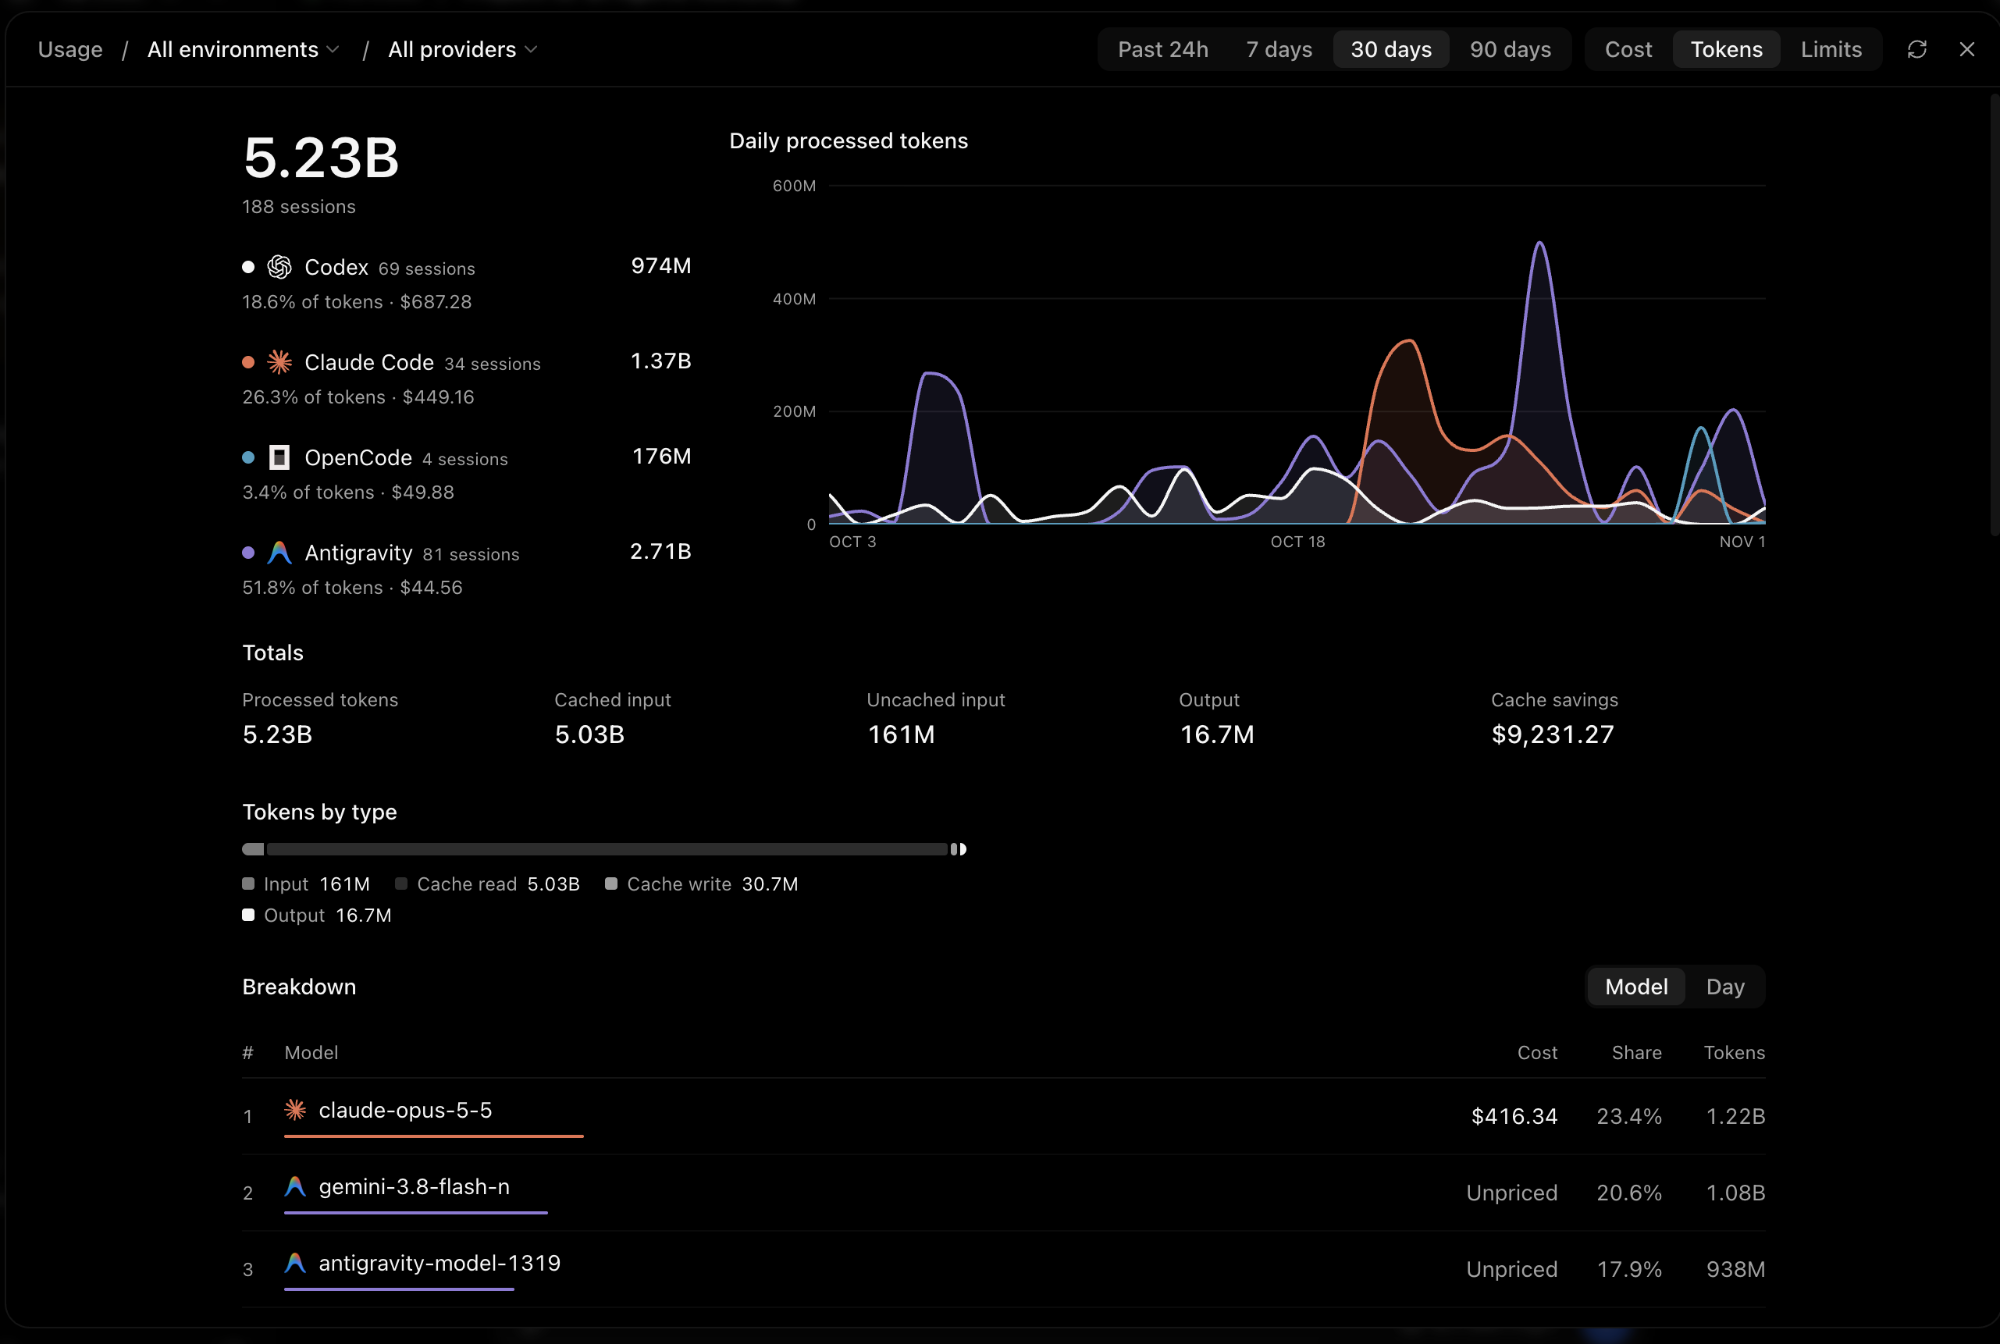
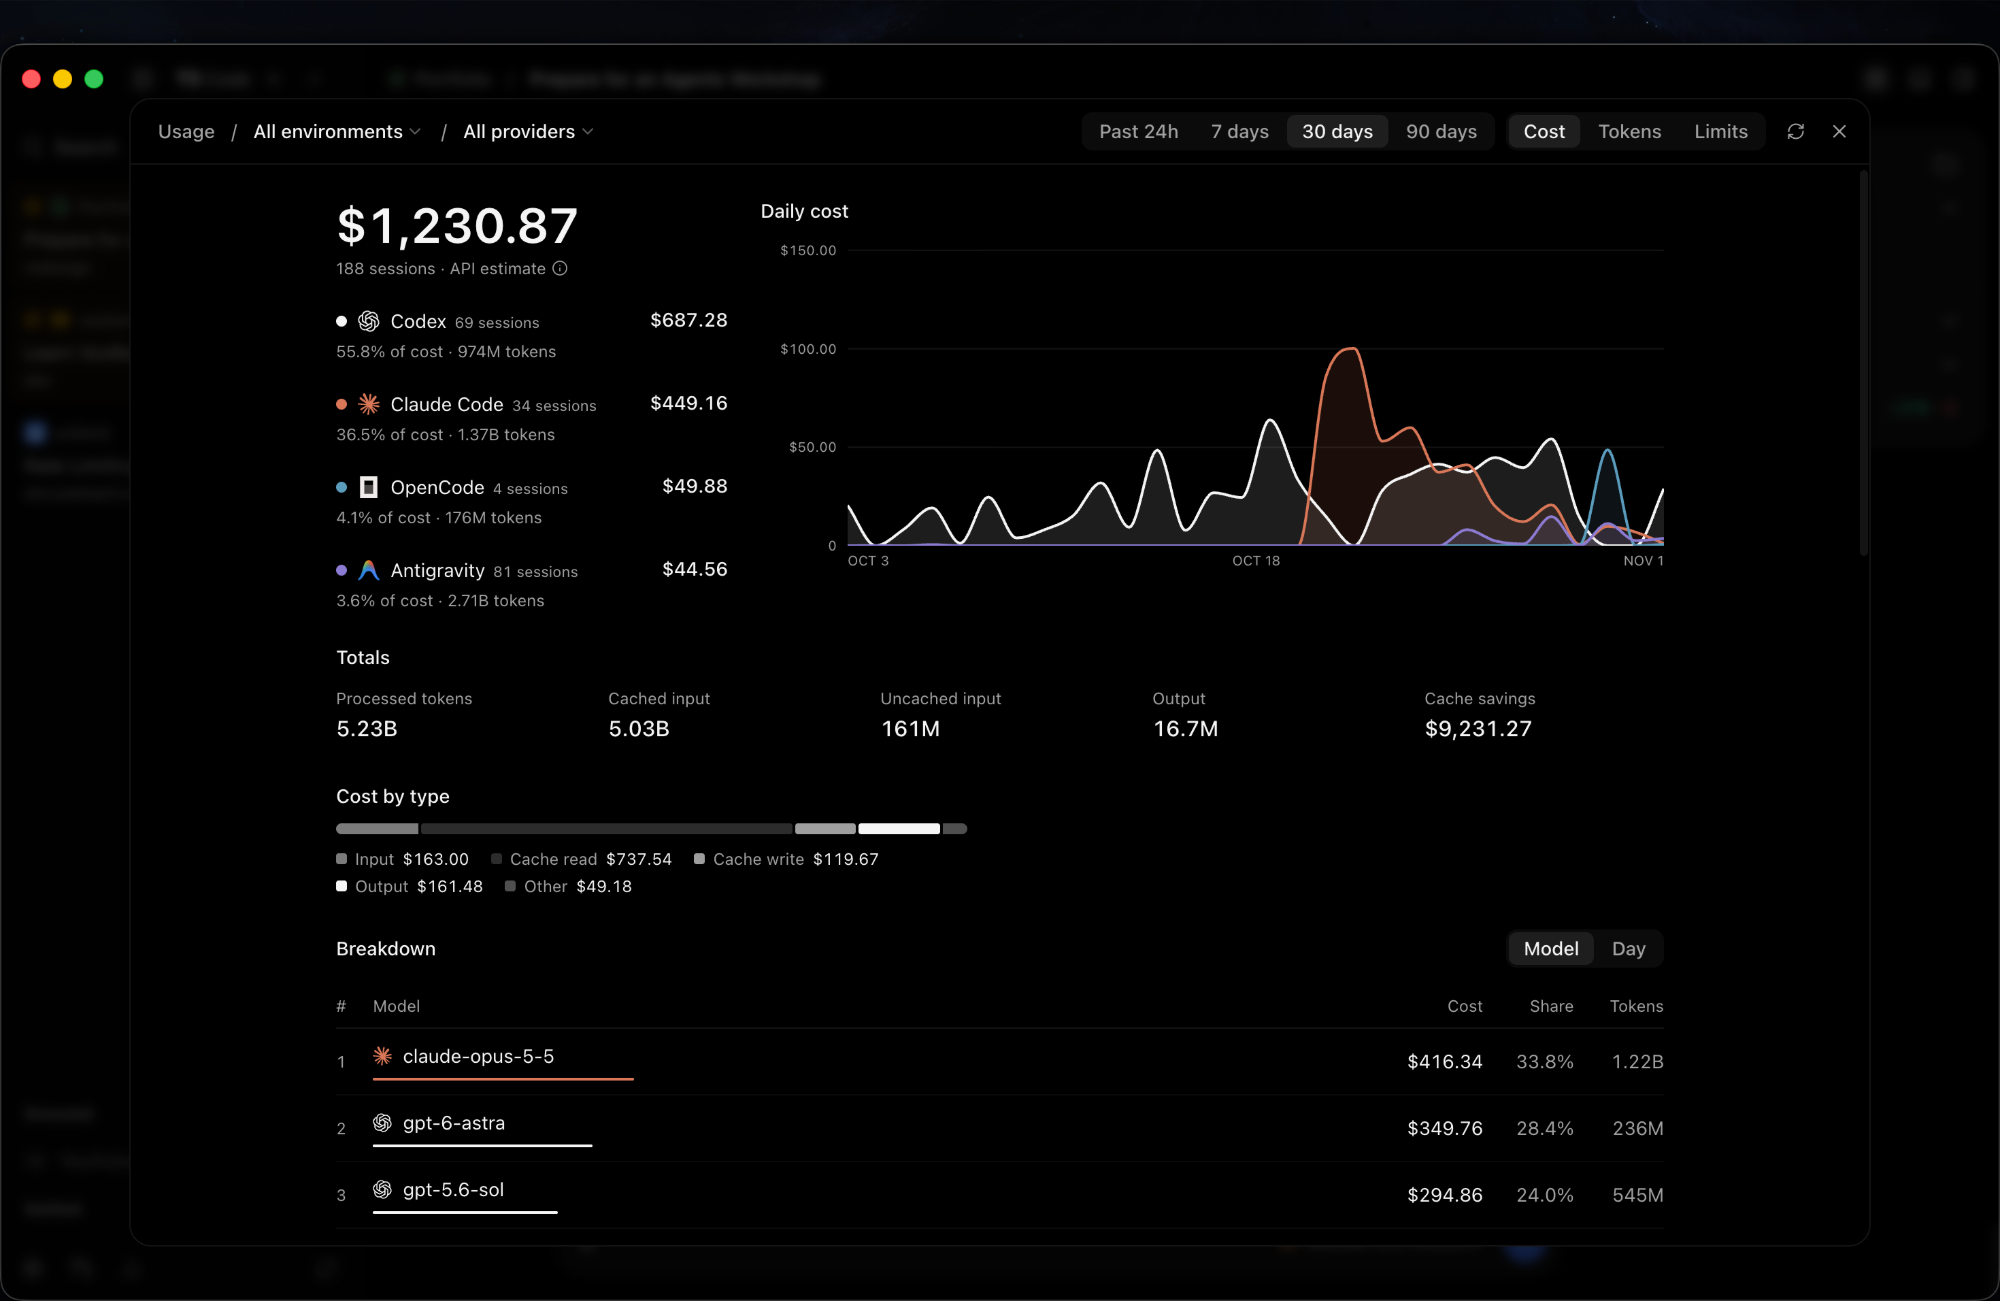
Swap token usage screenshot for cost view and update slide copy

diff --git a/LetTheAgentCook/index.html b/LetTheAgentCook/index.html
@@ -734,9 +734,9 @@ svg.diagram { width: 100%; height: auto; display: block; overflow: visible; font
   </ul></aside>
 </section>
 
-<section class="slide" data-act="Token budget" data-title="Read the token dashboard" data-at="12:00"><div class="kicker"><b>03</b> Tokens &amp; cost</div><h2 class="title">5.23 billion tokens. <em>What counts?</em></h2><div class="body"><div class="cols" style="grid-template-columns:1.6fr 1fr;align-items:center"><img src="assets/token-usage-30-days.png" alt="User-supplied 30-day usage dashboard: 5.23B processed tokens across 188 sessions, 5.03B cached input, 161M uncached input, 30.7M cache writes and 16.7M output" style="width:100%;max-height:32rem;object-fit:contain"><div class="stack"><div class="card"><h3>Repeated context adds up</h3><p>5.03B cache reads · about 96% of displayed processed tokens.</p></div><div class="card"><h3>Usage ≠ your invoice</h3><p>The dashboard reports $9,231.27 cache savings. Some models are unpriced; subscriptions and API billing differ.</p></div></div></div></div><aside class="notes"><p>Read the screenshot as aggregated processing over 188 sessions, not 5.23 billion unique words. Inputs can be counted again on successive model calls. Rounded categories sum to about 5.2384B; do not force exact reconciliation with 5.23B. The screenshot alone cannot establish the accounting rules, actual bill or comparable provider prices. Unpriced does not mean free. Cache savings is a dashboard estimate against its baseline, not money paid back.</p><p>Budget: one minute. Full workshop remains 45 minutes; see updated timeline.</p></aside></section>
+<section class="slide" data-act="Token budget" data-title="Read the token dashboard" data-at="12:00"><div class="kicker"><b>03</b> Tokens &amp; cost</div><h2 class="title">5.23 billion tokens. <em>What counts?</em></h2><div class="body"><div class="cols" style="grid-template-columns:1.6fr 1fr;align-items:center"><img src="assets/token-usage-30-days.png" alt="30-day usage dashboard: $1,230.87 API estimate across 188 sessions; 5.23B processed tokens, 5.03B cached input, 161M uncached input, 16.7M output; cost by type: cache read $737.54, input $163.00, output $161.48, cache write $119.67, other $49.18" style="width:100%;max-height:32rem;object-fit:contain"><div class="stack"><div class="card"><h3>Repeated context adds up</h3><p>5.03B cache reads · about 96% of displayed processed tokens.</p></div><div class="card"><h3>Usage ≠ your invoice</h3><p>The $1,230.87 is an API-rate estimate, and the dashboard reports $9,231.27 cache savings. Subscriptions and API billing differ.</p></div></div></div></div><aside class="notes"><p>Read the screenshot as aggregated processing over 188 sessions, not 5.23 billion unique words. Inputs can be counted again on successive model calls. Cost by type: cache read $737.54, input $163.00, output $161.48, cache write $119.67, other $49.18. Note cache reads are 96% of tokens but only about 60% of cost, while output is under 0.4% of tokens but about 13% of cost. The screenshot alone cannot establish the accounting rules, actual bill or comparable provider prices. Cache savings is a dashboard estimate against its baseline, not money paid back.</p><p>Budget: one minute. Full workshop remains 45 minutes; see updated timeline.</p></aside></section>
 
-<section class="slide" data-act="Token budget" data-title="Input, output and cache" data-at="13:00"><div class="kicker"><b>03</b> Tokens &amp; cost</div><h2 class="title">Four buckets. <em>Different prices.</em></h2><div class="body"><div class="cols"><div class="stack"><div class="card"><h3>Uncached input · 161M</h3><p>Instructions, conversation, files and tool results processed without a cache hit.</p></div><div class="card"><h3>Cache read · 5.03B</h3><p>Reuse of a matching stored prompt prefix. Usually cheaper input; still part of context.</p></div></div><div class="stack"><div class="card"><h3>Cache write · 30.7M</h3><p>Work stored for later reuse. Some models charge a distinct write rate.</p></div><div class="card"><h3>Output · 16.7M</h3><p>Generated responses and tool requests. Reasoning-token accounting depends on the model.</p></div></div></div><p class="small">Token cost = Σ (tokens in each non-overlapping billing category ÷ 1M × its rate). Add applicable tool fees.</p></div><aside class="notes"><p>Input is everything supplied to a model call, not just the sentence you typed. Tool results become later input; generated text can become later conversation input. Normalize provider usage first: some input totals already include cached tokens. Never charge those twice. Rates depend on model, provider and cache lifetime. API-equivalent estimates do not establish subscription charges.</p><p>Budget: one minute. Full workshop remains 45 minutes; see updated timeline.</p></aside></section>
+<section class="slide" data-act="Token budget" data-title="Input, output and cache" data-at="13:00"><div class="kicker"><b>03</b> Tokens &amp; cost</div><h2 class="title">Four buckets. <em>Different prices.</em></h2><div class="body"><div class="cols"><div class="stack"><div class="card"><h3>Uncached input · 161M</h3><p>Instructions, conversation, files and tool results processed without a cache hit.</p></div><div class="card"><h3>Cache read · 5.03B</h3><p>Reuse of a matching stored prompt prefix. Usually cheaper input; still part of context.</p></div></div><div class="stack"><div class="card"><h3>Cache write · $119.67</h3><p>Work stored for later reuse. Some models charge a distinct write rate. Token count not shown in the dashboard.</p></div><div class="card"><h3>Output · 16.7M</h3><p>Generated responses and tool requests. Reasoning-token accounting depends on the model.</p></div></div></div><p class="small">Token cost = Σ (tokens in each non-overlapping billing category ÷ 1M × its rate). Add applicable tool fees.</p></div><aside class="notes"><p>Input is everything supplied to a model call, not just the sentence you typed. Tool results become later input; generated text can become later conversation input. Normalize provider usage first: some input totals already include cached tokens. Never charge those twice. Rates depend on model, provider and cache lifetime. API-equivalent estimates do not establish subscription charges.</p><p>Budget: one minute. Full workshop remains 45 minutes; see updated timeline.</p></aside></section>
 
 <section class="slide" data-act="Token budget" data-title="How caching works" data-at="14:00"><div class="kicker"><b>03</b> Tokens &amp; cost</div><h2 class="title">Reuse the prefix. <em>Generate a new answer.</em></h2><div class="body"><div class="stack"><div class="card"><h3>Call 1</h3><p>Project rules + tool definitions + issue → process eligible input and populate cache.</p></div><div class="card hot"><h3>Call 2</h3><p>Same prefix + new test output → reuse eligible prefix; process new material; generate the next response.</p></div><div class="card"><h3>Hypothetical rates, not a price quote</h3><p>100k tokens at $2/M = $0.20 uncached.<br>90k at $0.20/M cached + 10k at $2/M = $0.038 input.<br>Output, earlier cache writes and other fees are additional.</p></div></div><p class="small">Cache eligibility, matching, lifetime and rates vary. A cache hit does not shrink the context window.</p></div><aside class="notes"><p>This caches reusable computation, not a saved answer. A prefix is the beginning of the prompt. Stable instructions and tool definitions help reuse; changing an earlier portion can invalidate later reuse. A new request can still generate a different answer. Harnesses often manage cache policy; asking the model to cache something is not an API configuration. API builders should check model-specific controls. Sources: https://developers.openai.com/api/docs/guides/prompt-caching and https://platform.claude.com/docs/en/build-with-claude/prompt-caching .</p><p>Budget: one minute. Full workshop remains 45 minutes; see updated timeline.</p></aside></section>
 

diff --git a/LetTheAgentCook/_build/slides.html b/LetTheAgentCook/_build/slides.html
@@ -316,9 +316,9 @@ license: MIT
   </ul></aside>
 </section>
 
-<section class="slide" data-act="Token budget" data-title="Read the token dashboard" data-at="12:00"><div class="kicker"><b>03</b> Tokens &amp; cost</div><h2 class="title">5.23 billion tokens. <em>What counts?</em></h2><div class="body"><div class="cols" style="grid-template-columns:1.6fr 1fr;align-items:center"><img src="assets/token-usage-30-days.png" alt="User-supplied 30-day usage dashboard: 5.23B processed tokens across 188 sessions, 5.03B cached input, 161M uncached input, 30.7M cache writes and 16.7M output" style="width:100%;max-height:32rem;object-fit:contain"><div class="stack"><div class="card"><h3>Repeated context adds up</h3><p>5.03B cache reads · about 96% of displayed processed tokens.</p></div><div class="card"><h3>Usage ≠ your invoice</h3><p>The dashboard reports $9,231.27 cache savings. Some models are unpriced; subscriptions and API billing differ.</p></div></div></div></div><aside class="notes"><p>Read the screenshot as aggregated processing over 188 sessions, not 5.23 billion unique words. Inputs can be counted again on successive model calls. Rounded categories sum to about 5.2384B; do not force exact reconciliation with 5.23B. The screenshot alone cannot establish the accounting rules, actual bill or comparable provider prices. Unpriced does not mean free. Cache savings is a dashboard estimate against its baseline, not money paid back.</p><p>Budget: one minute. Full workshop remains 45 minutes; see updated timeline.</p></aside></section>
+<section class="slide" data-act="Token budget" data-title="Read the token dashboard" data-at="12:00"><div class="kicker"><b>03</b> Tokens &amp; cost</div><h2 class="title">5.23 billion tokens. <em>What counts?</em></h2><div class="body"><div class="cols" style="grid-template-columns:1.6fr 1fr;align-items:center"><img src="assets/token-usage-30-days.png" alt="30-day usage dashboard: $1,230.87 API estimate across 188 sessions; 5.23B processed tokens, 5.03B cached input, 161M uncached input, 16.7M output; cost by type: cache read $737.54, input $163.00, output $161.48, cache write $119.67, other $49.18" style="width:100%;max-height:32rem;object-fit:contain"><div class="stack"><div class="card"><h3>Repeated context adds up</h3><p>5.03B cache reads · about 96% of displayed processed tokens.</p></div><div class="card"><h3>Usage ≠ your invoice</h3><p>The $1,230.87 is an API-rate estimate, and the dashboard reports $9,231.27 cache savings. Subscriptions and API billing differ.</p></div></div></div></div><aside class="notes"><p>Read the screenshot as aggregated processing over 188 sessions, not 5.23 billion unique words. Inputs can be counted again on successive model calls. Cost by type: cache read $737.54, input $163.00, output $161.48, cache write $119.67, other $49.18. Note cache reads are 96% of tokens but only about 60% of cost, while output is under 0.4% of tokens but about 13% of cost. The screenshot alone cannot establish the accounting rules, actual bill or comparable provider prices. Cache savings is a dashboard estimate against its baseline, not money paid back.</p><p>Budget: one minute. Full workshop remains 45 minutes; see updated timeline.</p></aside></section>
 
-<section class="slide" data-act="Token budget" data-title="Input, output and cache" data-at="13:00"><div class="kicker"><b>03</b> Tokens &amp; cost</div><h2 class="title">Four buckets. <em>Different prices.</em></h2><div class="body"><div class="cols"><div class="stack"><div class="card"><h3>Uncached input · 161M</h3><p>Instructions, conversation, files and tool results processed without a cache hit.</p></div><div class="card"><h3>Cache read · 5.03B</h3><p>Reuse of a matching stored prompt prefix. Usually cheaper input; still part of context.</p></div></div><div class="stack"><div class="card"><h3>Cache write · 30.7M</h3><p>Work stored for later reuse. Some models charge a distinct write rate.</p></div><div class="card"><h3>Output · 16.7M</h3><p>Generated responses and tool requests. Reasoning-token accounting depends on the model.</p></div></div></div><p class="small">Token cost = Σ (tokens in each non-overlapping billing category ÷ 1M × its rate). Add applicable tool fees.</p></div><aside class="notes"><p>Input is everything supplied to a model call, not just the sentence you typed. Tool results become later input; generated text can become later conversation input. Normalize provider usage first: some input totals already include cached tokens. Never charge those twice. Rates depend on model, provider and cache lifetime. API-equivalent estimates do not establish subscription charges.</p><p>Budget: one minute. Full workshop remains 45 minutes; see updated timeline.</p></aside></section>
+<section class="slide" data-act="Token budget" data-title="Input, output and cache" data-at="13:00"><div class="kicker"><b>03</b> Tokens &amp; cost</div><h2 class="title">Four buckets. <em>Different prices.</em></h2><div class="body"><div class="cols"><div class="stack"><div class="card"><h3>Uncached input · 161M</h3><p>Instructions, conversation, files and tool results processed without a cache hit.</p></div><div class="card"><h3>Cache read · 5.03B</h3><p>Reuse of a matching stored prompt prefix. Usually cheaper input; still part of context.</p></div></div><div class="stack"><div class="card"><h3>Cache write · $119.67</h3><p>Work stored for later reuse. Some models charge a distinct write rate. Token count not shown in the dashboard.</p></div><div class="card"><h3>Output · 16.7M</h3><p>Generated responses and tool requests. Reasoning-token accounting depends on the model.</p></div></div></div><p class="small">Token cost = Σ (tokens in each non-overlapping billing category ÷ 1M × its rate). Add applicable tool fees.</p></div><aside class="notes"><p>Input is everything supplied to a model call, not just the sentence you typed. Tool results become later input; generated text can become later conversation input. Normalize provider usage first: some input totals already include cached tokens. Never charge those twice. Rates depend on model, provider and cache lifetime. API-equivalent estimates do not establish subscription charges.</p><p>Budget: one minute. Full workshop remains 45 minutes; see updated timeline.</p></aside></section>
 
 <section class="slide" data-act="Token budget" data-title="How caching works" data-at="14:00"><div class="kicker"><b>03</b> Tokens &amp; cost</div><h2 class="title">Reuse the prefix. <em>Generate a new answer.</em></h2><div class="body"><div class="stack"><div class="card"><h3>Call 1</h3><p>Project rules + tool definitions + issue → process eligible input and populate cache.</p></div><div class="card hot"><h3>Call 2</h3><p>Same prefix + new test output → reuse eligible prefix; process new material; generate the next response.</p></div><div class="card"><h3>Hypothetical rates, not a price quote</h3><p>100k tokens at $2/M = $0.20 uncached.<br>90k at $0.20/M cached + 10k at $2/M = $0.038 input.<br>Output, earlier cache writes and other fees are additional.</p></div></div><p class="small">Cache eligibility, matching, lifetime and rates vary. A cache hit does not shrink the context window.</p></div><aside class="notes"><p>This caches reusable computation, not a saved answer. A prefix is the beginning of the prompt. Stable instructions and tool definitions help reuse; changing an earlier portion can invalidate later reuse. A new request can still generate a different answer. Harnesses often manage cache policy; asking the model to cache something is not an API configuration. API builders should check model-specific controls. Sources: https://developers.openai.com/api/docs/guides/prompt-caching and https://platform.claude.com/docs/en/build-with-claude/prompt-caching .</p><p>Budget: one minute. Full workshop remains 45 minutes; see updated timeline.</p></aside></section>
 
